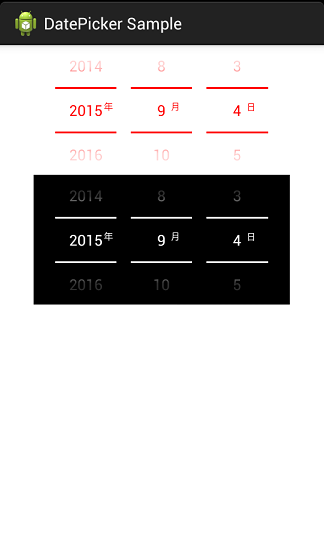
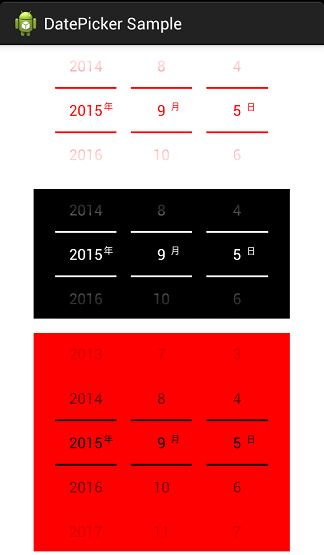
fix a bug

diff --git a/Sample/src/org/chenglei/widget/datepicker/Sample/MainActivity.java b/Sample/src/org/chenglei/widget/datepicker/Sample/MainActivity.java
@@ -6,11 +6,14 @@ import org.chenglei.widget.datepicker.Sound;
 import android.app.Activity;
 import android.graphics.Color;
 import android.os.Bundle;
+import android.util.Log;
+import android.widget.Toast;
 
 public class MainActivity extends Activity {
 	
 	private DatePicker mDatePicker1;
 	private DatePicker mDatePicker2;
+	private DatePicker mDatePicker3;
 	
 	@Override
 	protected void onCreate(Bundle savedInstanceState) {
@@ -18,6 +21,7 @@ public class MainActivity extends Activity {
 		setContentView(R.layout.main);
 		mDatePicker1 = (DatePicker) findViewById(R.id.date_picker1);
 		mDatePicker2 = (DatePicker) findViewById(R.id.date_picker2);
+		mDatePicker3 = (DatePicker) findViewById(R.id.date_picker3);
 		
 		Sound sound1 = new Sound(this);
 		mDatePicker1.setSoundEffect(sound1)
@@ -36,5 +40,19 @@ public class MainActivity extends Activity {
 			.setFlagTextSize(15)
 			.setBackground(Color.BLACK)
 			.setSoundEffectsEnabled(true);
+		
+		mDatePicker3.setTextColor(Color.BLACK)
+			.setFlagTextColor(Color.BLACK)
+			.setBackground(Color.RED)
+			.setTextSize(25)
+			.setFlagTextSize(15)
+			.setRowNumber(5)
+			.setOnDateChangedListener(new DatePicker.OnDateChangedListener() {
+				
+				@Override
+				public void onDateChanged(DatePicker view, int year, int monthOfYear, int dayOfMonth) {
+					Log.i("DatePicker", year + "-" + monthOfYear + "-" + dayOfMonth);
+				}
+			});
 	}
 }

diff --git a/library/src/org/chenglei/widget/datepicker/DatePicker.java b/library/src/org/chenglei/widget/datepicker/DatePicker.java
@@ -73,7 +73,7 @@ public class DatePicker extends LinearLayout implements NumberPicker.OnValueChan
 			mCalendar.set(Calendar.MONTH, newVal - 1);
 			mDayOfMonthPicker.setEndNumber(mCalendar.getActualMaximum(Calendar.DAY_OF_MONTH));
 		} else if (picker == mDayOfMonthPicker) {
-			mCalendar.set(Calendar.DAY_OF_WEEK, newVal);
+			mCalendar.set(Calendar.DAY_OF_MONTH, newVal);
 		}
 		
 		notifyDateChanged();

diff --git a/README.md b/README.md
@@ -27,3 +27,19 @@ DatePicker
 		.setBackground(Color.BLACK)
 		.setSoundEffectsEnabled(true);
 ```
+```java
+    mDatePicker3.setTextColor(Color.BLACK)
+		.setFlagTextColor(Color.BLACK)
+		.setBackground(Color.RED)
+		.setTextSize(25)
+		.setFlagTextSize(15)
+		.setRowNumber(5)
+		.setOnDateChangedListener(new DatePicker.OnDateChangedListener() {
+
+			@Override
+			public void onDateChanged(DatePicker view, int year, int monthOfYear, int dayOfMonth) {
+
+				Log.i("DatePicker", year + "-" + monthOfYear + "-" + dayOfMonth);
+			}
+		});
+```
